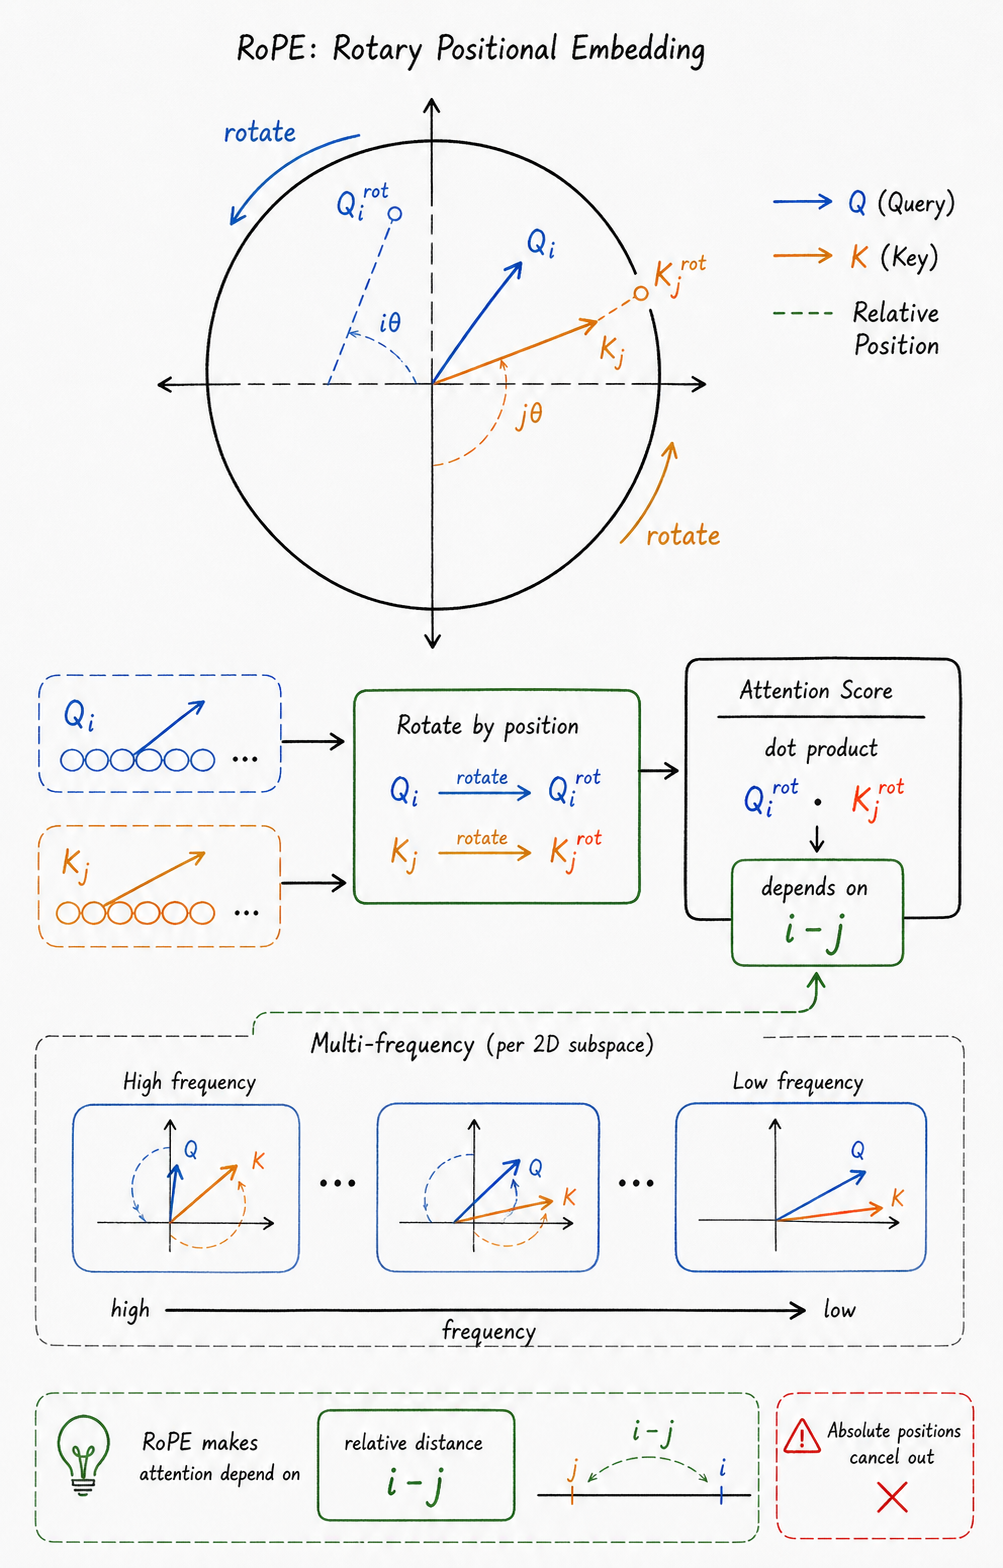
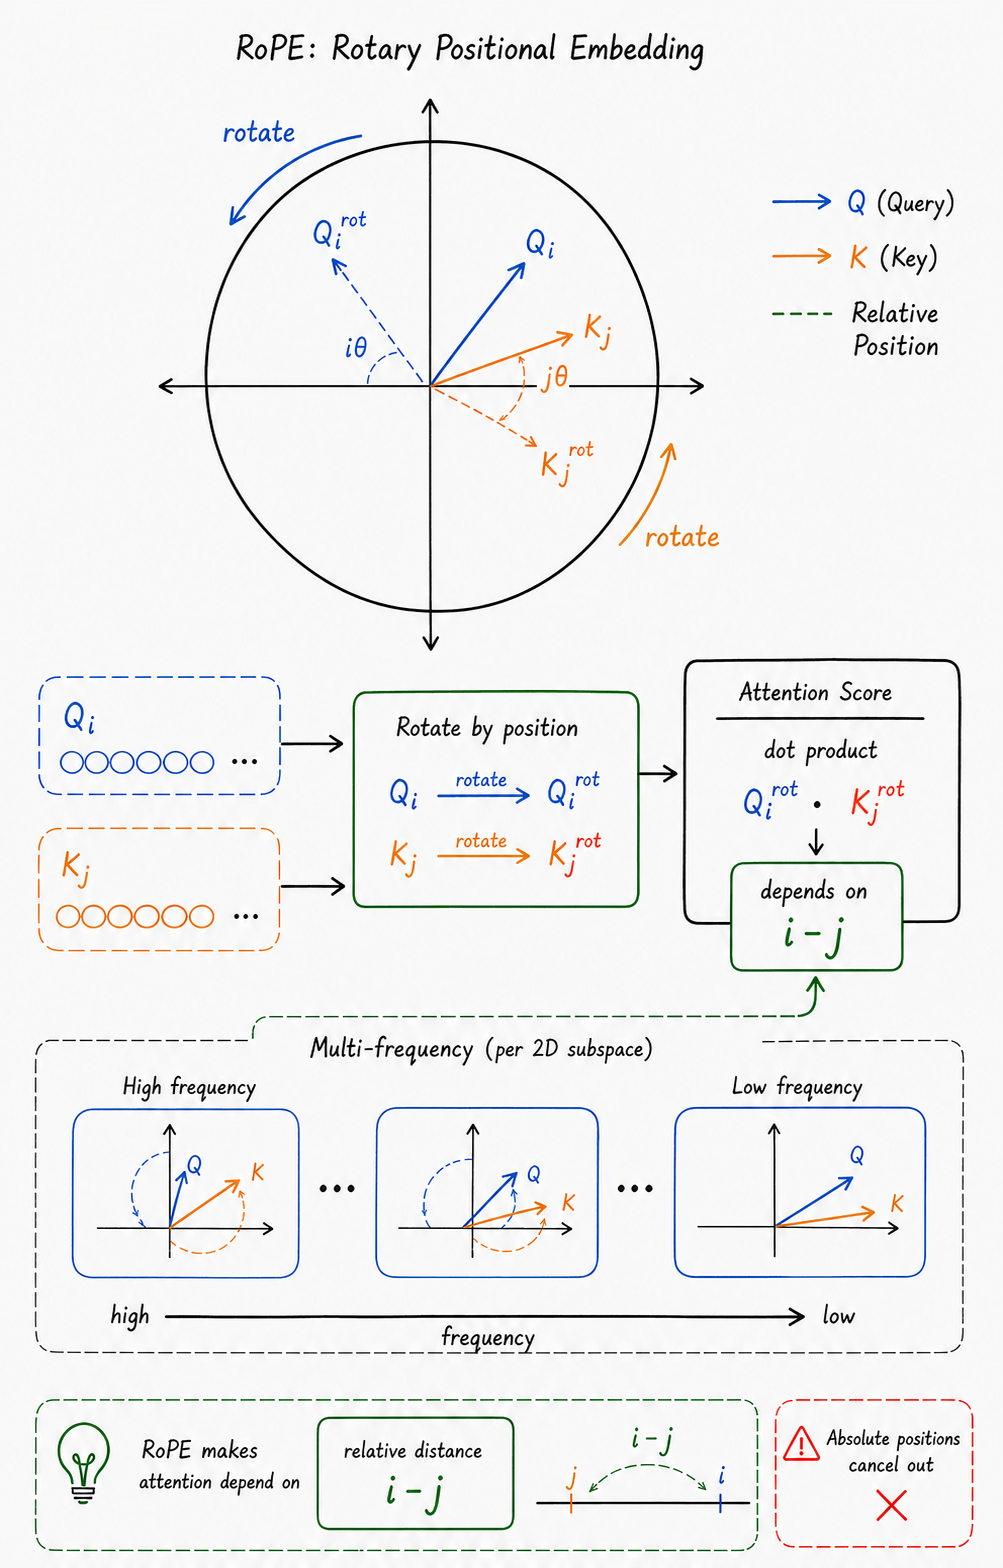
Redraw RoPE diagrams and isolate code blocks

diff --git a/scripts/publish_llm_source_notes.py b/scripts/publish_llm_source_notes.py
@@ -113,6 +113,74 @@ QA_IMAGES = {
     ],
 }
 
+INK_IMAGES = {
+    "Ink/Drawing/2026.5.4 - 22.02pm.drawing": (
+        "ink-2d-rotation-redraw.png",
+        "RoPE 二维向量旋转：所有向量从坐标原点出发",
+        "由原 Ink 手绘图重绘：二维向量绕坐标原点旋转。",
+    ),
+    "Ink/Drawing/2026.5.4 - 22.34pm.drawing": (
+        "ink-rotate-half-redraw.png",
+        "RoPE 按二维配对并应用 rotate_half",
+        "由原 Ink 手绘图重绘：相邻维度配对、rotate_half 与旋转结果。",
+    ),
+}
+
+MIXED_INLINE_CODE_REPLACEMENTS = {
+    "`student 自己生成轨迹 teacher 在 student 的轨迹前缀上给 token-level 监督 student 学 teacher 在这些状态下会怎么继续`": """```text
+student 自己生成轨迹
+→ teacher 在 student 的轨迹前缀上给 token-level 监督
+→ student 学习 teacher 在这些状态下会如何继续
+```""",
+    "`模型生成答案 环境返回反馈，比如 runtime error、judge feedback、测试结果 把原轨迹 + 反馈喂回模型 模型重新判断每个位置更应该怎么生成 把这个反馈条件下的分布蒸馏回原 policy`": """```text
+模型生成答案
+→ 环境返回 runtime error、judge feedback 或测试结果
+→ 将原轨迹与反馈喂回模型
+→ 模型重新判断每个位置更应该如何生成
+→ 将反馈条件下的分布蒸馏回原 policy
+```""",
+    "`原始问题： 写 square(x) 模型刚才的完整回答： def square(x): return x + x 环境反馈： square(3)=6，期望 9，应该用乘法。`": """```text
+原始问题：写 square(x)
+模型刚才的完整回答：def square(x): return x + x
+环境反馈：square(3)=6，期望 9，应该用乘法。
+```""",
+    "`student: P(next_token | 原始问题 + output_prefix) self-teacher: P(next_token | 原始问题 + 完整output + feedback + output_prefix)`": """```text
+student:
+P(next_token | 原始问题 + output_prefix)
+
+self-teacher:
+P(next_token | 原始问题 + 完整 output + feedback + output_prefix)
+```""",
+    "`teacher 输入 = [原始 prompt] + [完整 student output] + [feedback] + [用于打分的 output prefix]`": """```text
+teacher 输入
+= [原始 prompt]
++ [完整 student output]
++ [feedback]
++ [用于打分的 output prefix]
+```""",
+    "`完整 output：让 teacher 看到整次尝试和反馈 output prefix：用于 teacher-forcing 计算每一步 logits`": """```text
+完整 output：让 teacher 看到整次尝试和反馈
+output prefix：用于 teacher-forcing 计算每一步 logits
+```""",
+    "`原始 prompt: 写 square(x) student output: def square(x): return x + x feedback: 测试失败，square(3)=6，期望 9。`": """```text
+原始 prompt：写 square(x)
+student output：def square(x): return x + x
+feedback：测试失败，square(3)=6，期望 9。
+```""",
+    '`输入前缀: 写 square(x) + "def square(x): return x" 预测下一个 token: "+"`': '''```text
+输入前缀：写 square(x) + "def square(x): return x"
+预测下一个 token："+"
+```''',
+    '`反思上下文: 写 square(x) 刚才回答: def square(x): return x + x 反馈: 测试失败，应该用乘法 打分前缀: def square(x): return x 预测下一个 token: teacher 更偏向 "*"`': '''```text
+反思上下文：
+  写 square(x)
+  刚才回答：def square(x): return x + x
+  反馈：测试失败，应该用乘法
+打分前缀：def square(x): return x
+预测下一个 token：teacher 更偏向 "*"
+```''',
+}
+
 
 def yaml_string(value: str) -> str:
     return '"' + value.replace("\\", "\\\\").replace('"', '\\"') + '"'
@@ -166,8 +234,38 @@ def embedded_image_markdown(post: SourcePost, name: str) -> str:
     return f"![{alt}]({{{{ '{image_url}' | relative_url }}}})"
 
 
+def replace_handdrawn_ink(text: str, post: SourcePost) -> str:
+    def replace(match: re.Match[str]) -> str:
+        filepath = match.group(1)
+        image = INK_IMAGES.get(filepath)
+        if not image:
+            return match.group(0).replace("```handdrawn-ink", "```json")
+        filename, alt, caption = image
+        image_url = f"/assets/posts/llm-notes/{post.slug}/images/{filename}"
+        return (
+            '<figure class="qa-figure">\n'
+            f'  <img src="{{{{ \'{image_url}\' | relative_url }}}}" alt="{alt}" loading="lazy">\n'
+            f"  <figcaption>{caption}</figcaption>\n"
+            "</figure>"
+        )
+
+    return re.sub(
+        r'```handdrawn-ink\s*\{.*?"filepath"\s*:\s*"([^"]+)".*?\}\s*```',
+        replace,
+        text,
+        flags=re.DOTALL,
+    )
+
+
+def repair_mixed_inline_code(text: str) -> str:
+    for old, new in MIXED_INLINE_CODE_REPLACEMENTS.items():
+        text = text.replace(old, new)
+    return text
+
+
 def normalize_obsidian(text: str, post: SourcePost) -> str:
     text = text.replace("\r\n", "\n")
+    text = replace_handdrawn_ink(text, post)
     text = re.sub(r"!\[\[([^\]]+)\]\]", lambda match: embedded_image_markdown(post, match.group(1)), text)
     text = re.sub(r"\[\[([^\]|]+)\|([^\]]+)\]\]", r"\2", text)
     text = re.sub(r"\[\[([^\]]+)\]\]", r"\1", text)
@@ -180,6 +278,7 @@ def normalize_obsidian(text: str, post: SourcePost) -> str:
     )
     text = text.replace("KL(π_student || π_teacher)", r"KL(π_student \|\| π_teacher)")
     text = repair_loose_code_blocks(text)
+    text = repair_mixed_inline_code(text)
     text = normalize_inline_math(text, post.slug)
     text = ensure_table_boundaries(text)
     return text.strip() + "\n"

diff --git a/_posts/2026-05-18-opd.md b/_posts/2026-05-18-opd.md
@@ -315,7 +315,11 @@ $$
 
 OPD 的做法是：
 
-`student 自己生成轨迹 teacher 在 student 的轨迹前缀上给 token-level 监督 student 学 teacher 在这些状态下会怎么继续`
+```text
+student 自己生成轨迹
+→ teacher 在 student 的轨迹前缀上给 token-level 监督
+→ student 学习 teacher 在这些状态下会如何继续
+```
 
 所以它叫 **on-policy**：训练状态来自 student 自己，而不是固定 teacher 数据。verl 文档也把 OPD 描述为在 student policy 采样出来的 states 上，把 teacher 知识蒸馏给 student；slime 文档也强调这是在 student 自己的数据分布上蒸馏。来源：[![](https://verl.readthedocs.io/favicon.ico)verl OPD docs](https://verl.readthedocs.io/en/latest/algo/opd.html)、[![](https://www.mintlify.com/favicon.ico)slime OPD docs](https://www.mintlify.com/THUDM/slime/advanced/on-policy-distillation)。
 
@@ -325,7 +329,13 @@ SDPO 更像是 OPD 的一个“自蒸馏 + RLVR”变体。它不找外部大老
 
 流程大概是：
 
-`模型生成答案 环境返回反馈，比如 runtime error、judge feedback、测试结果 把原轨迹 + 反馈喂回模型 模型重新判断每个位置更应该怎么生成 把这个反馈条件下的分布蒸馏回原 policy`
+```text
+模型生成答案
+→ 环境返回 runtime error、judge feedback 或测试结果
+→ 将原轨迹与反馈喂回模型
+→ 模型重新判断每个位置更应该如何生成
+→ 将反馈条件下的分布蒸馏回原 policy
+```
 
 SDPO 论文主页说得很清楚：它把 tokenized feedback 转成 dense learning signal，不需要 external teacher 或 explicit reward model；当前模型 conditioned on feedback 后作为 self-teacher。来源：[SDPO project page](https://self-distillation.github.io/SDPO)、[![](https://arxiv.org/favicon.ico)arXiv:2601.20802](https://arxiv.org/abs/2601.20802)。
 
@@ -372,7 +382,11 @@ SDPO 更像：
 
 比如 teacher 的上下文可以是：
 
-`原始问题： 写 square(x) 模型刚才的完整回答： def square(x): return x + x 环境反馈： square(3)=6，期望 9，应该用乘法。`
+```text
+原始问题：写 square(x)
+模型刚才的完整回答：def square(x): return x + x
+环境反馈：square(3)=6，期望 9，应该用乘法。
+```
 
 这部分属于 **teacher context / reprompt**。
 
@@ -380,17 +394,32 @@ SDPO 更像：
 
 也就是在每个 token 位置上，比较：
 
-`student: P(next_token | 原始问题 + output_prefix) self-teacher: P(next_token | 原始问题 + 完整output + feedback + output_prefix)`
+```text
+student:
+P(next_token | 原始问题 + output_prefix)
+
+self-teacher:
+P(next_token | 原始问题 + 完整 output + feedback + output_prefix)
+```
 
 听起来像 output 出现了两次，是的，很多实现概念上就是这样：
 
-`teacher 输入 = [原始 prompt] + [完整 student output] + [feedback] + [用于打分的 output prefix]`
+```text
+teacher 输入
+= [原始 prompt]
++ [完整 student output]
++ [feedback]
++ [用于打分的 output prefix]
+```
 
 完整 output 用于“反思上下文”，output prefix 用于“对每个 token 做 next-token 分布打分”。
 
 不过实现里不一定真的拼成这么朴素的重复文本，可能会用特殊模板、分隔符、mask、position 处理来避免混淆。核心不变：
 
-`完整 output：让 teacher 看到整次尝试和反馈 output prefix：用于 teacher-forcing 计算每一步 logits`
+```text
+完整 output：让 teacher 看到整次尝试和反馈
+output prefix：用于 teacher-forcing 计算每一步 logits
+```
 
 拿你的话改成更准确的版本：
 
@@ -398,15 +427,29 @@ SDPO 更像：
 
 一个小例子：
 
-`原始 prompt: 写 square(x) student output: def square(x): return x + x feedback: 测试失败，square(3)=6，期望 9。`
+```text
+原始 prompt：写 square(x)
+student output：def square(x): return x + x
+feedback：测试失败，square(3)=6，期望 9。
+```
 
 student 分支打分：
 
-`输入前缀: 写 square(x) + "def square(x): return x" 预测下一个 token: "+"`
+```text
+输入前缀：写 square(x) + "def square(x): return x"
+预测下一个 token："+"
+```
 
 teacher 分支打分：
 
-`反思上下文: 写 square(x) 刚才回答: def square(x): return x + x 反馈: 测试失败，应该用乘法 打分前缀: def square(x): return x 预测下一个 token: teacher 更偏向 "*"`
+```text
+反思上下文：
+  写 square(x)
+  刚才回答：def square(x): return x + x
+  反馈：测试失败，应该用乘法
+打分前缀：def square(x): return x
+预测下一个 token：teacher 更偏向 "*"
+```
 
 所以，是你说的那个意思：**student output 一方面作为 teacher prompt 里的“待反思对象”，另一方面作为被计算 loss 的 trajectory。**
 

diff --git a/_posts/2026-05-05-rope.md b/_posts/2026-05-05-rope.md
@@ -53,14 +53,10 @@ $$
 
 其中 $R_{(i-j)\theta}$ 只与位置差有关，目标达成。
 
-```json
-{
-	"versionAtEmbed": "0.3.4",
-	"filepath": "Ink/Drawing/2026.5.4 - 22.02pm.drawing",
-	"width": 500,
-	"aspectRatio": 1
-}
-```
+<figure class="qa-figure">
+  <img src="{{ '/assets/posts/llm-notes/rope/images/ink-2d-rotation-redraw.png' | relative_url }}" alt="RoPE 二维向量旋转：所有向量从坐标原点出发" loading="lazy">
+  <figcaption>由原 Ink 手绘图重绘：二维向量绕坐标原点旋转。</figcaption>
+</figure>
 
 ### 2.2 高维推广
 
@@ -209,14 +205,10 @@ class RotaryPositionalEmbedding(torch.nn.Module):
 
 
 
-```json
-{
-	"versionAtEmbed": "0.3.4",
-	"filepath": "Ink/Drawing/2026.5.4 - 22.34pm.drawing",
-	"width": 500,
-	"aspectRatio": 1
-}
-```
+<figure class="qa-figure">
+  <img src="{{ '/assets/posts/llm-notes/rope/images/ink-rotate-half-redraw.png' | relative_url }}" alt="RoPE 按二维配对并应用 rotate_half" loading="lazy">
+  <figcaption>由原 Ink 手绘图重绘：相邻维度配对、rotate_half 与旋转结果。</figcaption>
+</figure>
 
 ### 3.2 关键步骤解释
 